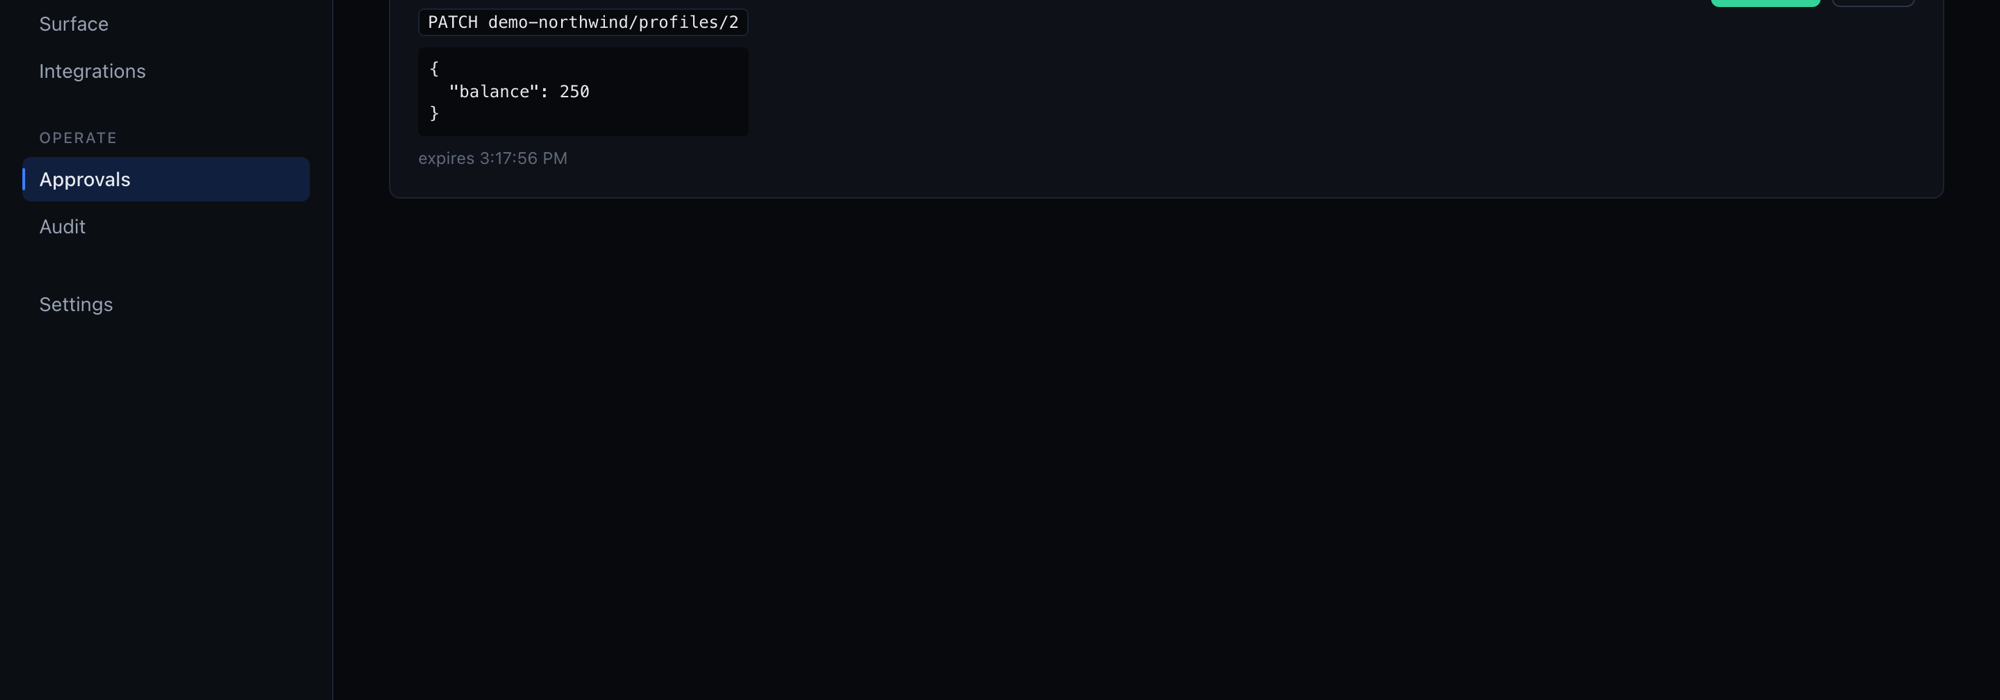
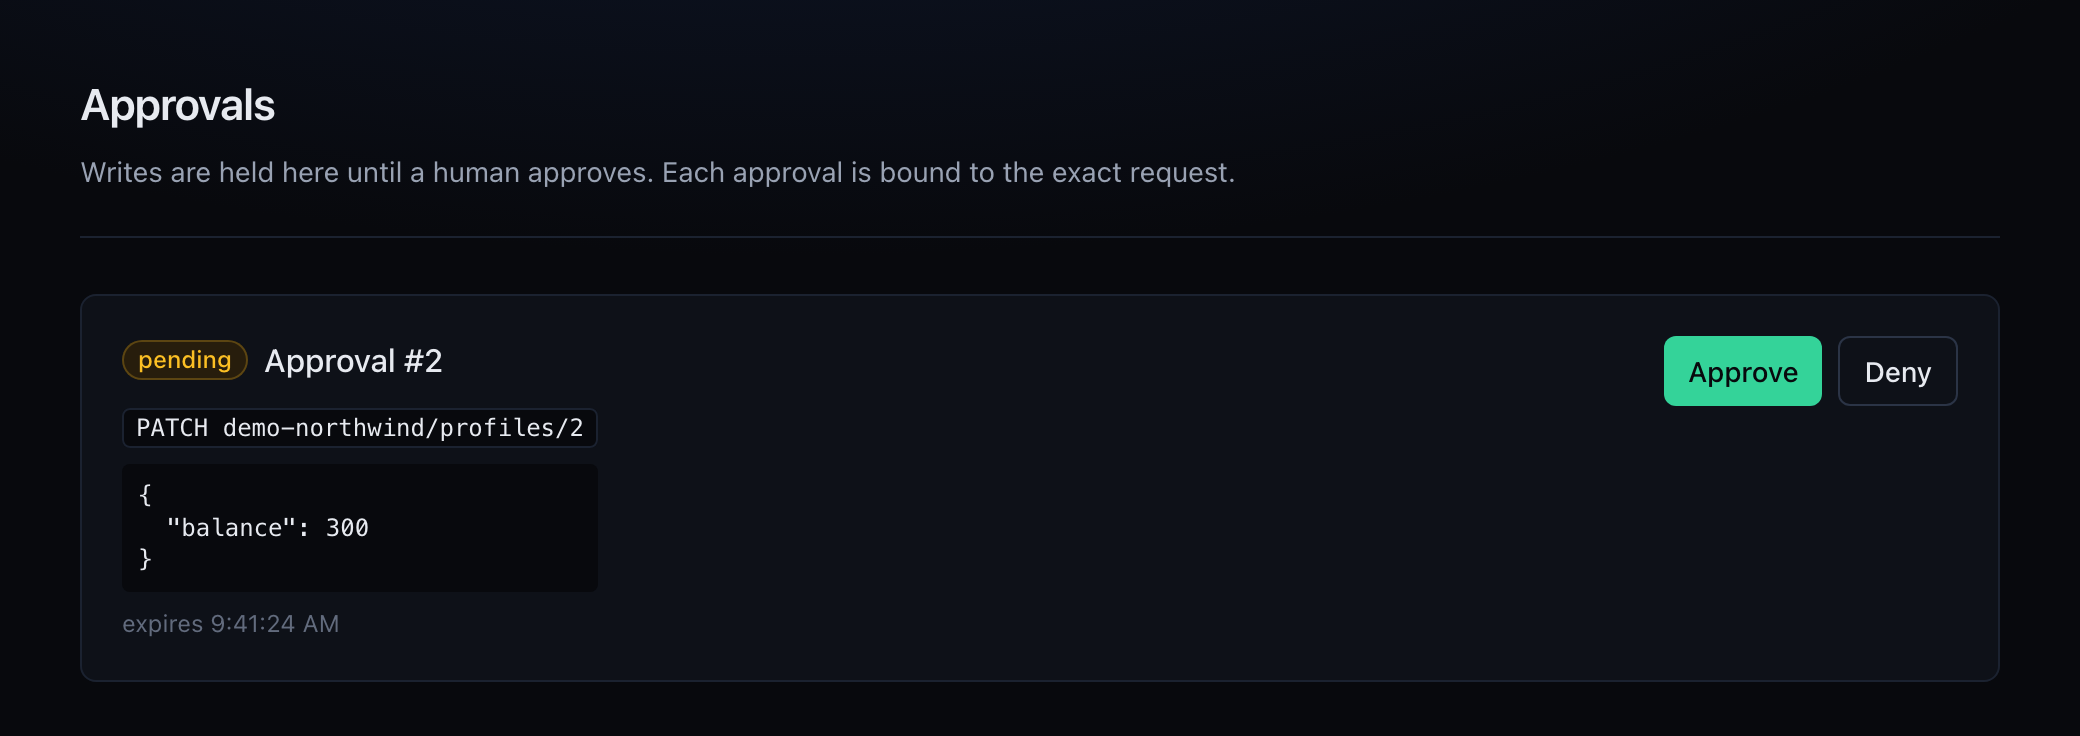
Tighten copy, crop screenshots to content

diff --git a/index.html b/index.html
@@ -192,7 +192,7 @@
   .shot img { display: block; width: 100%; height: auto; }
   .shot-cap { margin-top: 14px; color: var(--muted); font-size: 14.5px; text-align: left; }
   .shot-cap b { color: var(--text); }
-  .shots-2 { display: grid; grid-template-columns: 1fr 1fr; gap: 24px; margin-top: 28px; }
+  .shots-2 { display: grid; grid-template-columns: 1fr 1fr; gap: 24px; margin-top: 28px; align-items: start; }
   .shot-main { margin-top: 44px; }
   @media (max-width: 860px) { .shots-2 { grid-template-columns: 1fr; } }
 
@@ -230,7 +230,7 @@
   <div class="wrap">
     <div class="pill"><span class="dot"></span> Self-hosted · Runs inside your network</div>
     <h1>Let AI agents act inside your systems. <span class="hl">Safely.</span></h1>
-    <p class="lead">Agentify sits between the agent and your internal APIs. Reads pass through. Writes wait for a human. Every call runs as the person who asked, and everything is recorded.</p>
+    <p class="lead">Reads pass through. Writes wait for a human. Every call runs as the person who asked, and everything is logged.</p>
     <div class="cta-row">
       <a class="btn btn-primary btn-lg" href="#demo">Request a demo</a>
       <a class="btn btn-ghost btn-lg" href="#how">See how it works</a>
@@ -239,16 +239,15 @@
     <div class="panel" aria-label="Example of a gated write">
       <div class="panel-bar"><i></i><i></i><i></i><span style="margin-left:6px">claude · connected to agentify</span></div>
       <div class="panel-body">
-        <div class="msg"><div class="avatar u">M</div><div class="bubble">Refund order <span class="mono">#48213</span> and update the customer's account balance.</div></div>
+        <div class="msg"><div class="avatar u">M</div><div class="bubble">Refund order <span class="mono">#48213</span> and update the customer's balance.</div></div>
         <div class="step"><span class="tag read">READ</span> <span class="mono">GET /orders/48213</span> · as marcus@company.com · passed through</div>
-        <div class="step"><span class="tag hold">HELD</span> <span class="mono">POST /refunds</span> · write detected · waiting for approval</div>
+        <div class="step"><span class="tag hold">HELD</span> <span class="mono">POST /refunds</span> · write · waiting for approval</div>
         <div class="card">
           <div class="card-h"><span>Approval required</span><span>expires in 14:52</span></div>
           <pre class="mono">POST /refunds
-{ "order_id": 48213, "amount": 129.00, "reason": "customer_request" }</pre>
+{ "order_id": 48213, "amount": 129.00 }</pre>
           <div class="row"><button class="btn btn-ok" type="button">Approve</button><button class="btn btn-ghost" type="button">Reject</button></div>
         </div>
-        <div class="msg"><div class="avatar a">A</div><div class="bubble"><span class="dim">Waiting on your approval. Nothing has changed yet.</span></div></div>
       </div>
     </div>
   </div>
@@ -258,11 +257,10 @@
   <div class="wrap center">
     <div class="eyebrow">How it works</div>
     <h2>Point it at your API. That's the setup.</h2>
-    <p class="sub">Agentify reads your existing API documentation and generates the tools your agent can use. No custom integration code per system.</p>
     <div class="cards">
-      <div class="c"><div class="n">1</div><h3>Connect a system</h3><p>Give Agentify your OpenAPI spec. It builds a catalog of every endpoint and turns them into tools an agent can call.</p></div>
-      <div class="c"><div class="n">2</div><h3>People sign in as themselves</h3><p>Employees connect through your existing SSO. Each person's credential is stored encrypted and used only for their own requests.</p></div>
-      <div class="c"><div class="n">3</div><h3>Reads flow, writes wait</h3><p>Anything that changes data is held and shown to a human with the exact payload. Approve it and it runs immediately. Every step is logged.</p></div>
+      <div class="c"><div class="n">1</div><h3>Connect a system</h3><p>Hand it your OpenAPI spec. Every endpoint becomes a tool the agent can call.</p></div>
+      <div class="c"><div class="n">2</div><h3>People sign in as themselves</h3><p>Employees connect through your SSO. Each credential is used only for that person's requests.</p></div>
+      <div class="c"><div class="n">3</div><h3>Reads flow, writes wait</h3><p>Anything that changes data is held until a human approves it. Then it runs, and it's logged.</p></div>
     </div>
   </div>
 </section>
@@ -273,42 +271,41 @@
       <div>
         <div class="eyebrow">Why it's safe</div>
         <h2>The agent never touches a credential.</h2>
-        <p class="sub">The model decides <em>which</em> action to take. A separate broker decides <em>whose</em> credential goes on the wire. The two are never in the same place.</p>
+        <p class="sub">The model picks the action. A separate broker picks whose credential goes on the wire.</p>
         <div class="list">
-          <div class="li"><div class="ic">✓</div><div><b>Per-user identity</b><span>No shared robot account. Every call runs as the employee who asked.</span></div></div>
-          <div class="li"><div class="ic">✓</div><div><b>Approvals bound to the exact request</b><span>We fingerprint the method, destination, and body. Approving one thing can't execute a different thing. Single-use, expires in 15 minutes.</span></div></div>
-          <div class="li"><div class="ic">✓</div><div><b>Sandboxed code, no internet</b><span>When the agent writes code, it runs in a locked container that can reach the broker and nothing else.</span></div></div>
-          <div class="li"><div class="ic">✓</div><div><b>Replayable audit log</b><span>Every tool call, held write, and approval, with secrets redacted. Answer "what did the agent do?" in seconds.</span></div></div>
+          <div class="li"><div class="ic">✓</div><div><b>Per-user identity</b><span>Every call runs as the employee who asked. No shared robot account.</span></div></div>
+          <div class="li"><div class="ic">✓</div><div><b>Approvals bound to the request</b><span>Fingerprinted on method, path, and body. Single use. Expires in 15 minutes.</span></div></div>
+          <div class="li"><div class="ic">✓</div><div><b>Sandboxed code, no internet</b><span>Agent-written code runs in a locked container that can reach the broker and nothing else.</span></div></div>
+          <div class="li"><div class="ic">✓</div><div><b>Replayable audit log</b><span>Every call, held write, and approval, with secrets redacted.</span></div></div>
         </div>
       </div>
       <div class="principle">
-        <p class="big">If someone hides malicious instructions in data the agent reads, the worst case is a <em>different approved action</em>, still as the same person, still needing approval, still logged.</p>
-        <p>It cannot escalate to a more powerful credential, because it never had access to any credential in the first place. Prompt injection becomes boring instead of catastrophic.</p>
+        <p class="big">Prompt injection becomes <em>boring.</em></p>
+        <p>Hidden instructions in data the agent reads can, at worst, trigger a different approved action. Same person, still needs approval, still logged. There is no credential to steal.</p>
       </div>
     </div>
   </div>
 </section>
 
-
 <section id="inside">
   <div class="wrap center">
     <div class="eyebrow">Inside the console</div>
     <h2>Every action, on the record.</h2>
-    <p class="sub">This is the admin console, running against a demo backend. Nothing here is a mockup.</p>
+    <p class="sub">The real admin console against a demo backend. No mockups.</p>
 
     <div class="shot-main">
-      <div class="shot"><div class="panel-bar"><i></i><i></i><i></i><span style="margin-left:6px">console · audit</span></div><img src="img/audit.png" alt="Audit replay: two reads pass through, a PATCH is held, approved, then executed" loading="lazy"></div>
-      <p class="shot-cap"><b>Audit replay.</b> One run, start to finish: two reads pass straight through, the write is held, a human approves it, it executes. Request and response bodies are stored with secrets redacted.</p>
+      <div class="shot"><div class="panel-bar"><i></i><i></i><i></i><span style="margin-left:6px">console · audit</span></div><img src="img/audit.png" alt="Audit replay of one run" loading="lazy"></div>
+      <p class="shot-cap"><b>Audit replay.</b> One run, start to finish: two reads pass through, the write is held, approved, executed.</p>
     </div>
 
     <div class="shots-2">
       <div>
-        <div class="shot"><div class="panel-bar"><i></i><i></i><i></i><span style="margin-left:6px">console · approvals</span></div><img src="img/approvals.png" alt="Approvals queue showing a pending PATCH with its exact payload" loading="lazy"></div>
-        <p class="shot-cap"><b>Approvals queue.</b> The exact method, path, and body the agent wants to send. Approve it and it runs. Single use, expires in 15 minutes.</p>
+        <div class="shot"><div class="panel-bar"><i></i><i></i><i></i><span style="margin-left:6px">console · approvals</span></div><img src="img/approvals.png" alt="A pending approval with its exact payload" loading="lazy"></div>
+        <p class="shot-cap"><b>Approvals queue.</b> The exact request the agent wants to send. Approve it and it runs.</p>
       </div>
       <div>
-        <div class="shot"><div class="panel-bar"><i></i><i></i><i></i><span style="margin-left:6px">console · integrations</span></div><img src="img/integrations.png" alt="Integrations page showing connected systems and how employees authenticate" loading="lazy"></div>
-        <p class="shot-cap"><b>Integrations.</b> Which systems the broker may call and how each person authenticates to them. Per-user SSO or a shared key, encrypted at rest.</p>
+        <div class="shot"><div class="panel-bar"><i></i><i></i><i></i><span style="margin-left:6px">console · integrations</span></div><img src="img/integrations.png" alt="Connected systems and how employees authenticate" loading="lazy"></div>
+        <p class="shot-cap"><b>Integrations.</b> Which systems the broker may call, and how each person authenticates.</p>
       </div>
     </div>
   </div>
@@ -318,10 +315,10 @@
   <div class="wrap center">
     <div class="eyebrow">Who it's for</div>
     <h2>Teams where a wrong click costs real money.</h2>
-    <p class="sub">Built for operations teams that handle money or sensitive records, where fixing a customer problem currently means asking an engineer to run something.</p>
+    <p class="sub">Ops teams handling money or sensitive records, where fixing a customer problem means asking an engineer.</p>
     <div class="who">
-      <div class="c"><h3>Fintech operations</h3><p>Payments, lending, cards. Refunds, account fixes, dispute handling, and collections. The manual work that queues up behind engineering.</p></div>
-      <div class="c"><h3>Healthcare billing</h3><p>Revenue cycle teams correcting claims and billing records all day, where an audit trail isn't a nice-to-have but a legal requirement.</p></div>
+      <div class="c"><h3>Fintech operations</h3><p>Refunds, account fixes, disputes, collections.</p></div>
+      <div class="c"><h3>Healthcare billing</h3><p>Claim corrections and billing fixes, where an audit trail is a legal requirement.</p></div>
     </div>
   </div>
 </section>
@@ -330,10 +327,9 @@
   <div class="wrap center">
     <div class="eyebrow">Request a demo</div>
     <h2>See it run against a real system.</h2>
-    <p class="sub">Tell us a little about your team and we'll set up a 30-minute walkthrough.</p>
+    <p class="sub">A 30-minute walkthrough. Tell us a bit about your team.</p>
 
     <div class="form-wrap">
-      <!-- Replace mdekopjb with the ID Formspree gives you. See README. -->
       <form id="demoForm" class="f" action="https://formspree.io/f/mdekopjb" method="POST">
         <input type="hidden" name="_subject" value="Agentify demo request">
         <input class="hp" type="text" name="_gotcha" tabindex="-1" autocomplete="off">
@@ -341,20 +337,17 @@
           <label>Name<input name="name" type="text" required autocomplete="name" placeholder="Jane Doe"></label>
           <label>Work email<input name="email" type="email" required autocomplete="email" placeholder="jane@company.com"></label>
         </div>
-        <div class="f2">
-          <label>Company<input name="company" type="text" required autocomplete="organization" placeholder="Acme"></label>
-          <label>Role<input name="role" type="text" placeholder="Head of Operations"></label>
-        </div>
-        <label>What systems would the agent need to touch?<input name="systems" type="text" placeholder="Stripe, internal admin API, Salesforce…"></label>
-        <label>Anything else<textarea name="message" placeholder="What's the manual process today?"></textarea></label>
+        <label>Company<input name="company" type="text" required autocomplete="organization" placeholder="Acme"></label>
+        <label>What systems would the agent touch?<input name="systems" type="text" placeholder="Stripe, internal admin API, Salesforce"></label>
+        <label>What's the manual process today?<textarea name="message"></textarea></label>
         <button class="btn btn-primary btn-lg" type="submit">Request a demo</button>
-        <div class="err" id="err">Something went wrong. Email us directly at <a href="mailto:mohika591@gmail.com" style="text-decoration:underline">mohika591@gmail.com</a>.</div>
+        <div class="err" id="err">Something went wrong. Email <a href="mailto:mohika591@gmail.com" style="text-decoration:underline">mohika591@gmail.com</a> instead.</div>
       </form>
       <div class="thanks" id="thanks">
         <div class="big">Got it, thanks.</div>
-        <p>We'll reach out within a day to set up a time.</p>
+        <p>We'll reach out within a day.</p>
       </div>
-      <p class="fine">No spam. We'll only use this to reply to you.</p>
+      <p class="fine">No spam. We only use this to reply.</p>
     </div>
   </div>
 </section>
